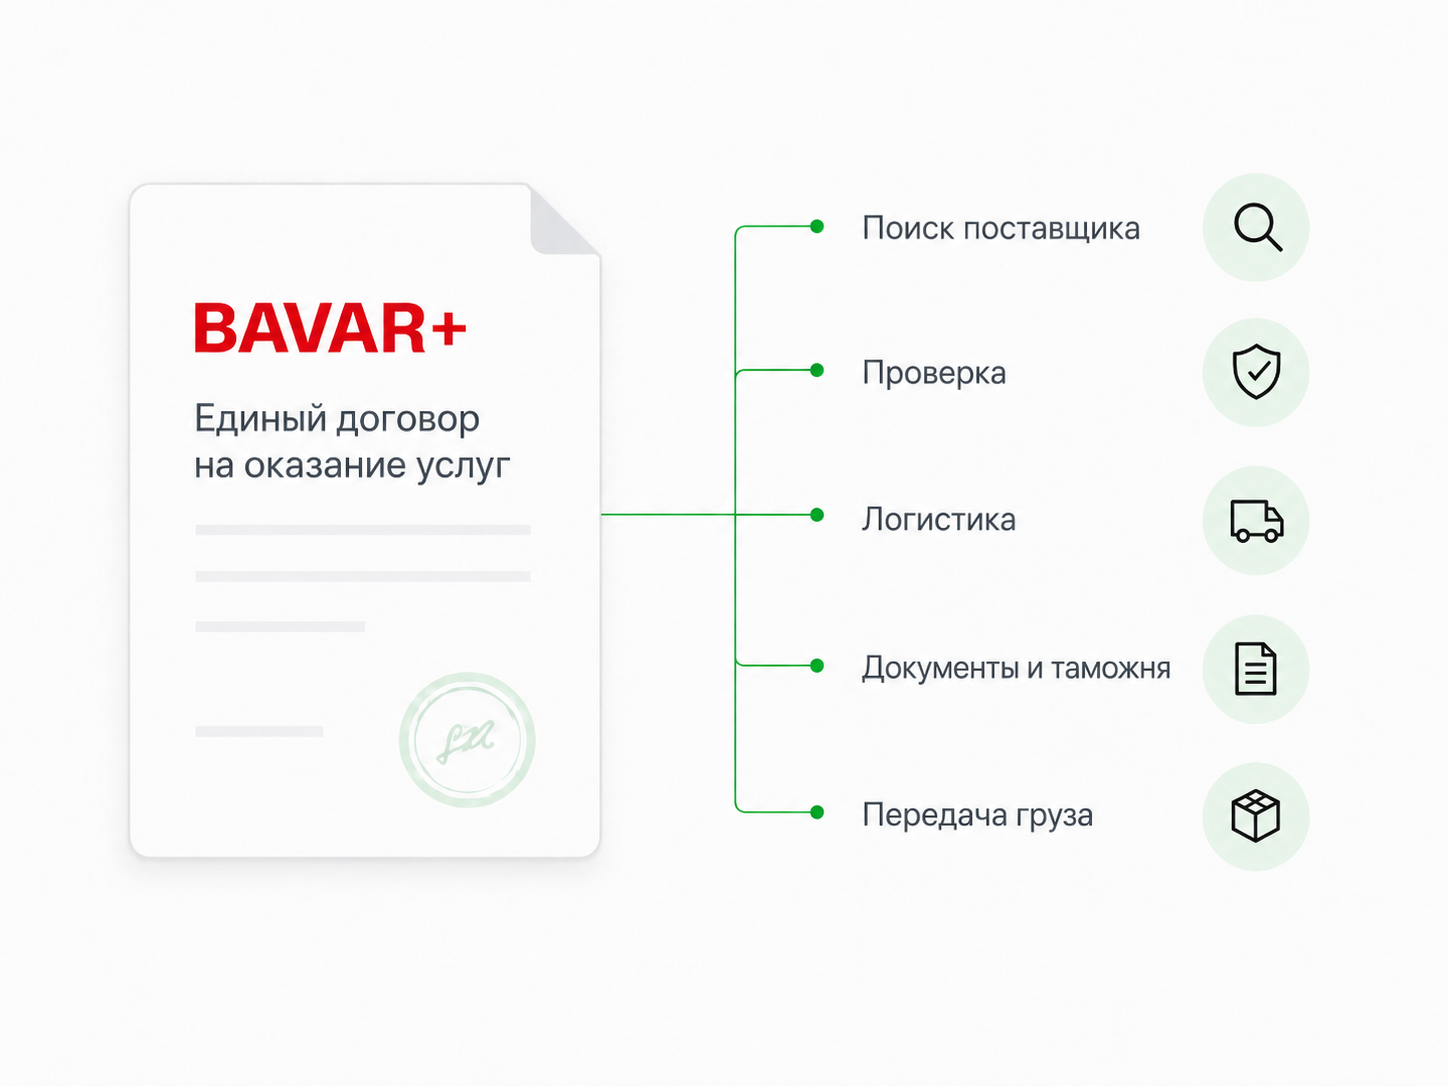
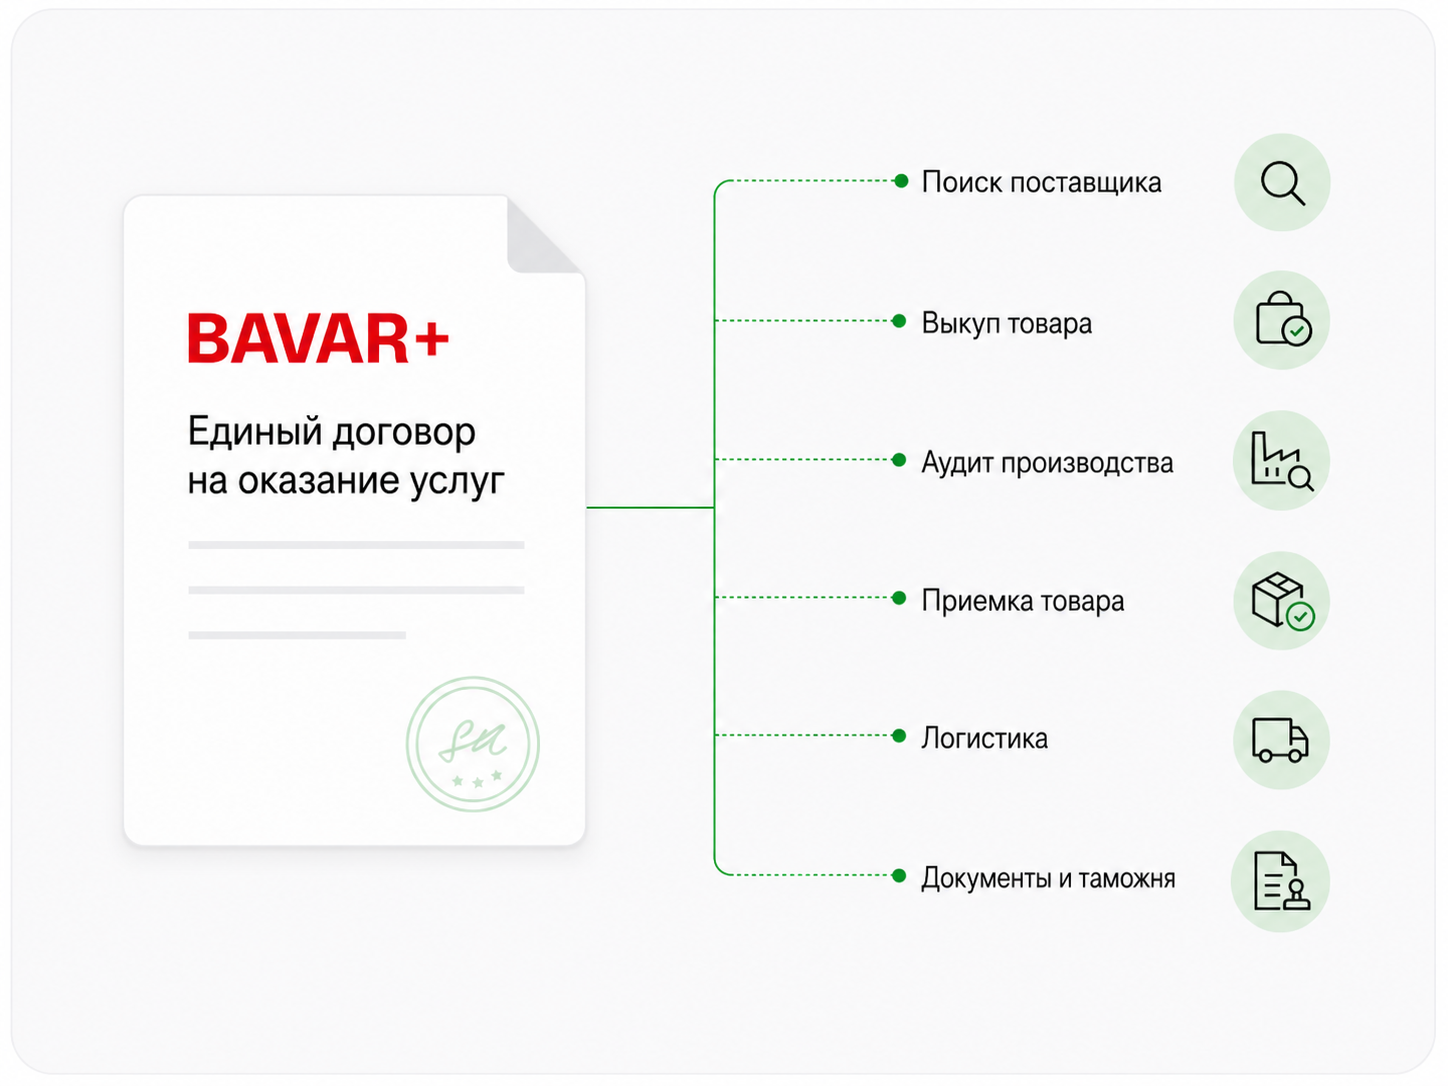
Replace plus.png with updated 6-service version (per copy edits)
New illustration includes:
1. Поиск поставщика
2. Выкуп товара (new, 2nd position)
3. Аудит производства (replaces Проверка part 1)
4. Приемка товара (replaces Проверка part 2)
5. Логистика
6. Документы и таможня

'Передача груза' removed. Cache-bust ?v=1 → ?v=2.

diff --git a/index.html b/index.html
@@ -163,7 +163,7 @@
         <div class="cmp-card__icon">✓</div>
         <div class="cmp-card__label">Когда ВЭД ведёт <span class="brand-inline">Бавар<span class="brand-inline__plus">+</span></span></div>
         <h3 class="cmp-card__title">Одна команда и понятная ответственность</h3>
-        <img class="cmp-card__visual" src="assets/plus.png?v=1" alt="Один договор BAVAR+ — все услуги от поиска поставщика до передачи груза">
+        <img class="cmp-card__visual" src="assets/plus.png?v=2" alt="Один договор BAVAR+ — все услуги от поиска поставщика до передачи груза">
         <ul class="cmp-card__list">
           <li>Один исполнитель отвечает за весь процесс — от&nbsp;поиска поставщика до&nbsp;выкупа товара</li>
           <li>Поиск, выкуп товара, аудит производства, приемка товара, логистика, документы и&nbsp;таможня — сопровождение всей цепочки одной компанией</li>
